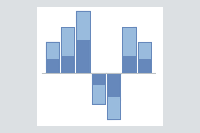
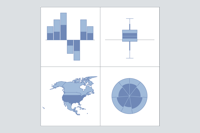
weight graphs more equally

Changed region(s): [[0.18, 0.0301, 0.84, 0.9624]]

diff --git a/build/index.html b/build/index.html
@@ -1,1 +1,1 @@
-<!doctype html><html lang="en"><head><meta charset="utf-8"/><meta name="viewport" content="width=device-width,initial-scale=1"/><meta name="theme-color" content="#000000"/><link rel="icon" href="/proportional-highlighting/favicon.ico"/><link rel="manifest" href="/proportional-highlighting/manifest.json"/><meta name="description" content="A user interface for proportional highlighting of linked visualizations"/><title>Proportional Highlighting</title><script defer="defer" src="/proportional-highlighting/static/js/main.17960470.js"></script><link href="/proportional-highlighting/static/css/main.5abf1452.css" rel="stylesheet"></head><script async src="https://www.googletagmanager.com/gtag/js?id=G-DCS8XW18TC"></script><script>function gtag(){dataLayer.push(arguments)}window.dataLayer=window.dataLayer||[],gtag("js",new Date),gtag("config","G-DCS8XW18TC")</script><body><noscript>You must enable JavaScript to run this app.</noscript><div id="root"></div></body></html>
+<!doctype html><html lang="en"><head><meta charset="utf-8"/><meta name="viewport" content="width=device-width,initial-scale=1"/><meta name="theme-color" content="#000000"/><link rel="icon" href="/proportional-highlighting/favicon.ico"/><link rel="manifest" href="/proportional-highlighting/manifest.json"/><meta name="description" content="A user interface for proportional highlighting of linked visualizations"/><title>Proportional Highlighting</title><script defer="defer" src="/proportional-highlighting/static/js/main.b9710a3c.js"></script><link href="/proportional-highlighting/static/css/main.5abf1452.css" rel="stylesheet"></head><script async src="https://www.googletagmanager.com/gtag/js?id=G-DCS8XW18TC"></script><script>function gtag(){dataLayer.push(arguments)}window.dataLayer=window.dataLayer||[],gtag("js",new Date),gtag("config","G-DCS8XW18TC")</script><body><noscript>You must enable JavaScript to run this app.</noscript><div id="root"></div></body></html>

diff --git a/src/Circle.js b/src/Circle.js
@@ -25,8 +25,8 @@ const Circle = () => {
 Circle.draw = ( selection, label, x, y, width, height, values, valuesSelected, radiusStart, isAngle ) => {
     
     // Initialization.
-    const margin = Graph.margin,
-        outerRadius = Math.min( width, height ) * ( 1 - 4 * margin ) / 2,
+    const margin = 2 * Graph.margin,
+        outerRadius = Math.min( width, height ) * ( 1 - 2 * margin ) / 2,
         innerRadius = radiusStart * outerRadius;
     Graph.draw( selection, label, x, y, width, height, undefined, false );
     const x0 = Math.floor( width / 2 ) + 0.5,

diff --git a/src/TreeMap.js b/src/TreeMap.js
@@ -23,7 +23,7 @@ const TreeMap = () => {
 TreeMap.draw = ( selection, label, x, y, width, height, values, valuesSelected ) => {
     
     // Initialization.
-    const margin = Graph.margin;
+    const margin = 2 * Graph.margin;
     Graph.draw( selection, label, x, y, width, height, undefined, false );
 
     // Get the absolute values.
